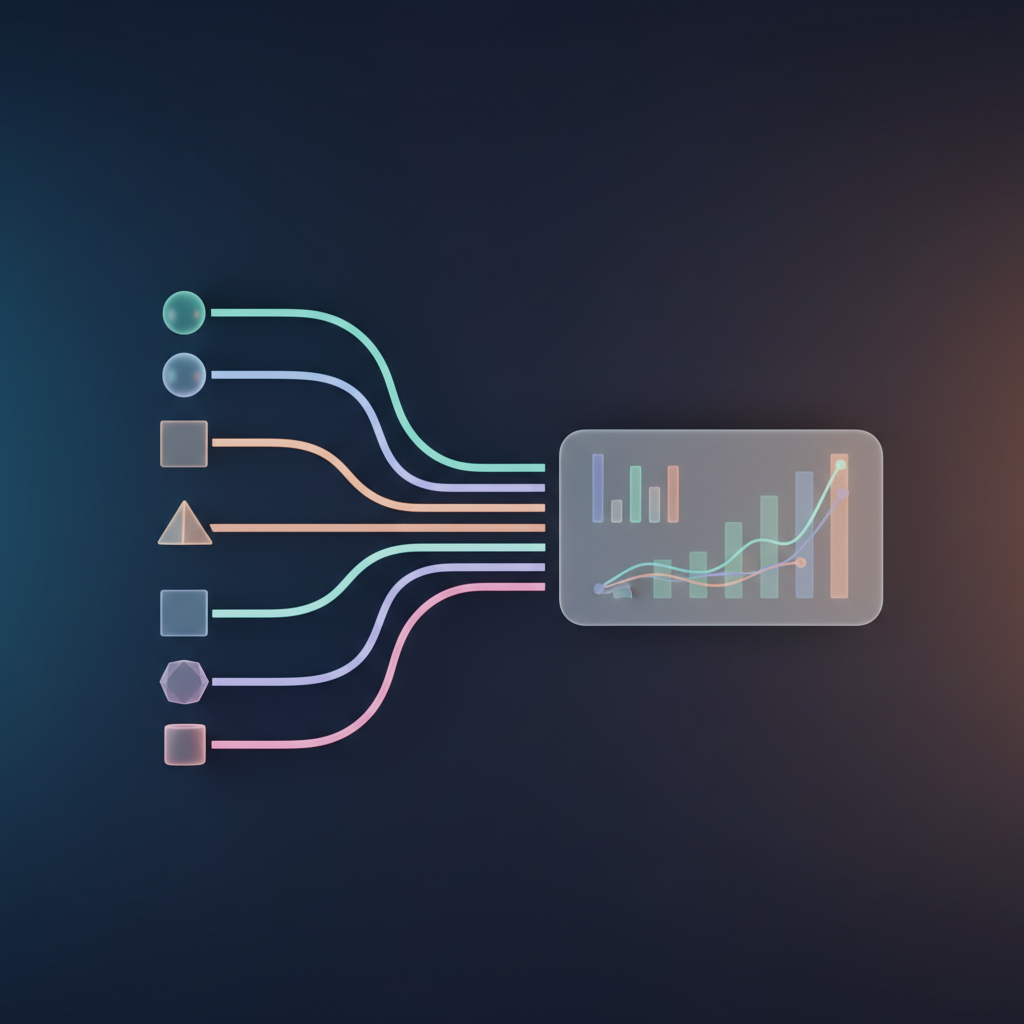
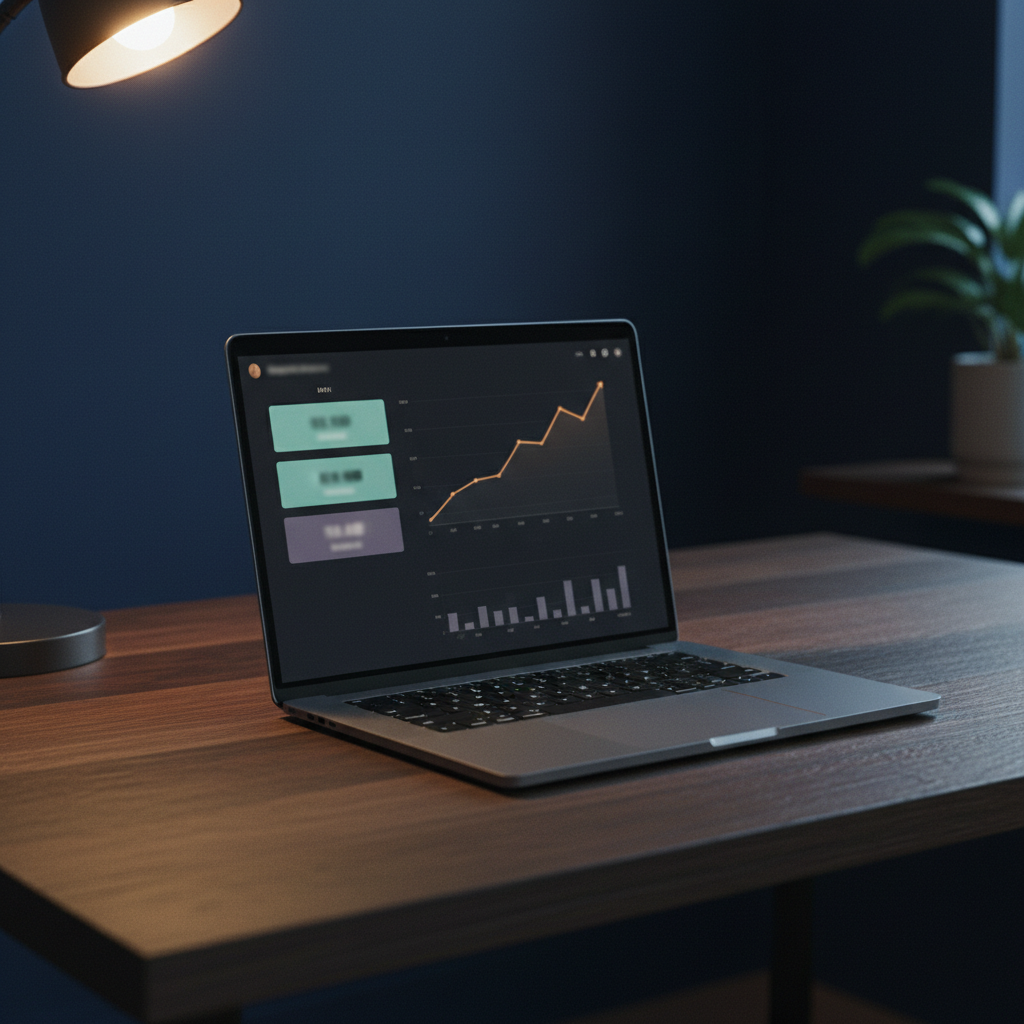
Upgrade image generation: photoreal product-shot style, regen dashboard

diff --git a/lib/gemini_client.py b/lib/gemini_client.py
@@ -28,11 +28,24 @@ class GeminiClient:
             f"models/{self.model}:generateContent"
         )
 
-        # Добавляем "формат для Threads" чтобы пропорция была вертикальная
+        # Технический хвост: добавляется ко всем prompt'ам чтобы получить
+        # photoreal product-photography качество вместо AI-stock иллюстрации.
+        # Стилистика описана в prompts/image_style.md
         full_prompt = (
             f"{prompt}\n\n"
-            "Format: portrait orientation 4:5 aspect ratio, "
-            "high quality, suitable for social media post."
+            "Technical: photoreal 3D render, Octane / Cinema 4D quality, "
+            "cinematic lighting with rim light and soft directional shadows, "
+            "shallow depth of field, sharp focus on hero subject with blurred "
+            "background, editorial product photography aesthetic, fine surface "
+            "texture detail (brushed metal, matte ceramic, satin paper, "
+            "frosted glass where applicable), realistic material PBR shading, "
+            "high dynamic range, subtle film grain. "
+            "Composition: vertical 4:5 aspect ratio (1080x1350), single hero "
+            "subject, three-color palette maximum, no rainbow gradients. "
+            "Strictly avoid: flat illustration look, abstract geometric symbols, "
+            "lines connecting nodes, holographic effects, magical glow, generic "
+            "AI-stock aesthetic, brand logos, readable text, human figures or "
+            "body parts in frame."
         )
 
         payload = {

diff --git a/prompts/image_style.md b/prompts/image_style.md
@@ -1,63 +1,138 @@
 # Визуальный стиль картинок к постам
 
-Этот файл — референс для написания image_prompt. Не используется напрямую кодом, но Claude должен ориентироваться на него когда генерит image_prompt в варианте поста.
+Этот файл — референс для написания image_prompt. Используется Claude когда
+он генерит image_prompt для нового поста. Цель: картинка должна показывать
+СУТЬ РЕЗУЛЬТАТА работы, а не быть абстрактным символом.
 
-## Базовые правила
+## Главный принцип
 
-- **Vertical 4:5** — оптимальная пропорция для feed Threads (1080x1350)
-- **Тёмный фон** — соответствует визуальному стилю UmayGPT и не слепит в ленте
-- **Без людей** — генерация людей часто выходит криво и съедает аутентичность
-- **Без названий брендов и реальных лого** — Gemini часто рендерит коряво и это палится
-- **Без текста на картинке** — кроме случаев когда это часть концепта (схема, dashboard mockup)
+**Снимай результат как продукт, а не идею через метафору.**
 
-## Стили которые работают
+Если пост про дашборд — покажи реальный экран дашборда (или его натурный мокап
+на ноутбуке/телефоне). Если про call-аналитику — покажи интерфейс с волной
+звука и метриками. Если про премиум-товары — покажи коробку как из product
+photography. Не лепи "поток данных в виде цветных линий" или "микрофон
+переходящий в график". Это AI-stock.
 
-### 1. Минималистичная 3D иллюстрация
-```
-Minimalist 3D illustration on dark navy background, abstract geometric shapes,
-soft gradient lighting, modern professional aesthetic, vertical 4:5 composition,
-no text, no people, subtle glow effects
-```
+Картинка должна отвечать на вопрос «что у Султана на экране сейчас стоит»,
+а не «что бы могло быть метафорой темы».
 
-### 2. Дашборд / интерфейс-мокап
-```
-UI dashboard mockup on dark background, clean modern interface with data charts,
-graph visualization, soft purple and teal accents, no real brand names,
-vertical 4:5 layout, minimalist design
-```
+## Базовый формат
 
-### 3. Схема процесса (флоу)
-```
-Diagram flow chart on dark background, connected nodes with arrows,
-abstract icons representing process steps, soft gradient line connections,
-minimalist technical illustration, vertical 4:5, no labels or text
-```
+- **Vertical 4:5** (1080×1350) для основного формата
+- **Реалистичный 3D render или photoreal product shot** — не "illustration", не "concept art"
+- **Глубина кадра** — главный объект в фокусе, фон с soft bokeh / depth of field
+- **Рим-свет** (rim light) и мягкие тени — даёт объём и кинематографичность
+- **Один герой кадра** — не пять объектов в композиции. Один главный, остальное контекст
 
-### 4. Концепт-арт продукта
+## Что должно быть в любом промпте
+
+Стандартный технический хвост (вшит в gemini_client.py — повторять в prompt не надо):
+
 ```
-Concept art of abstract tech product on dark gradient background,
-soft volumetric lighting, modern industrial design aesthetic,
-deep purple to blue color palette, vertical 4:5, photorealistic render
+photoreal 3D render, octane / cinema 4d quality, cinematic lighting, rim light,
+soft directional shadows, depth of field, shallow focus, vertical 4:5
+composition, product photography aesthetic
 ```
 
-### 5. Метафорическая визуализация
+В сам prompt пиши **что снимаем + материалы + освещение + палитра + сцена**.
+
+## Шаблоны по типам постов
+
+### A. Пост про софт / интерфейс / дашборд / приложение
+Снимаем экран продукта в реалистичном контексте, не абстракцию.
+
 ```
-Abstract metaphorical visualization: [метафора - микрофон + волны для аудио,
-шестигранник для оценки, нейронная сеть для AI], dark moody background,
-glowing accents, minimalist editorial illustration style, vertical 4:5
+Photoreal product shot: matte black 14-inch laptop angled three-quarter view on
+a dark walnut desk, screen displays a clean dark-mode dashboard with crisp data
+visualizations (bar charts, line graphs, KPI tiles in teal and warm white,
+sample numbers blurred). Single warm lamp from upper-left, rim light catches
+laptop edge, soft shadow on desk. Background: blurred home office with deep
+indigo wall, out of focus. Vertical 4:5.
 ```
 
-## Цветовая палитра по умолчанию
+Альтернатива — экран телефона в руке (но без лица), либо плавающий экран без
+устройства (как Apple keynote slide), без логотипа на корпусе.
 
-- Основа: глубокий тёмно-синий / navy (#0a0e27, #1a1f3a)
-- Акценты: фиолетовый (#7c3aed), бирюзовый (#06b6d4), мягкий пурпурный (#a855f7)
-- Подсветка: тёплый янтарный (#f59e0b) для редких акцентов
+### B. Пост про физический продукт / коробку / товар
+Чистый product shot как у premium бренда.
 
-## Чего избегать
+```
+Photoreal product photography: single matte champagne-gold gift box sitting on
+brushed concrete surface, soft satin ribbon catching light, fine paper texture
+visible. Hard rim light from back-left creating sharp highlight, soft fill from
+front. Background gradient from deep charcoal at top to warm umber at bottom,
+shallow depth of field. Editorial commercial style, vertical 4:5.
+```
 
-- Стоковые фото-выглядящие изображения
-- Иллюстрации с плоскими градиентами без объёма
-- Картинки с очевидным AI-look (искажённые пальцы, странные глаза)
-- Яркие пёстрые цвета — выглядят дёшево
-- Корпоративный clipart-look
-- Тексты-плакаты ("AI revolution", "Future is here") — это палится моментально
+### C. Пост про процесс / систему / автоматизацию
+Покажи рабочее место или артефакт работы, не "блок-схему со стрелками".
+
+```
+Photoreal overhead shot of a developer workspace: matte mechanical keyboard,
+open notebook with handwritten flow diagram (lines abstract, not readable),
+small coffee cup with steam, smartphone face-down showing a single notification
+glow. Warm desk lamp light from top-right, deep amber and teal accents.
+Shallow focus on notebook. Vertical 4:5.
+```
+
+### D. Пост-рассуждение / без конкретного объекта
+Если объекта нет — снимай ATMOSFERA не символ.
+
+```
+Photoreal cinematic still: dimly lit home office at night, single laptop screen
+glowing teal in foreground (content not readable, just light), window with city
+lights bokeh in background. Mood: focused late-night work. No people in frame.
+Vertical 4:5, shallow depth of field, anamorphic feel.
+```
+
+## Палитра — выбирается под тему, не всегда navy+teal
+
+| Тема | Палитра |
+|---|---|
+| Аналитика, технари, продукт | глубокий navy + teal + warm white, акцент янтарь |
+| Премиум-товары, lifestyle | champagne gold + charcoal + soft cream |
+| AI / автоматизация / код | dark slate + electric cyan + magenta highlights |
+| Колл-центр / коммуникации | warm amber + deep brown + cream |
+| Маркетинг / реклама / креатив | sunset orange + plum + ivory |
+| Стратегические рассуждения | monochrome dark with one warm accent |
+
+Никогда не "rainbow gradient" — палитра 3 цвета максимум.
+
+## Анти-AI-stock чек-лист
+
+Промпт НЕ должен содержать:
+
+- ❌ "abstract geometric shapes" / "abstract data flow"
+- ❌ "lines connecting nodes" / "network visualization"
+- ❌ "magical glow" / "futuristic interface"
+- ❌ "X transforms into Y" (микрофон в волны, мозг в схему)
+- ❌ "holographic" / "neon cyberpunk"
+- ❌ "minimalist illustration" (просим РЕНДЕР, не иллюстрацию)
+- ❌ "soft gradient background" без детали что именно
+- ❌ Стрелки, мозги с лампочкой, рукопожатия, глобус с линиями
+- ❌ Слово "creative" / "innovative" / "modern" без конкретики
+
+Промпт ДОЛЖЕН содержать:
+
+- ✅ Конкретный главный объект ("matte black 14-inch laptop" а не "device")
+- ✅ Материалы ("brushed aluminum", "satin paper", "matte ceramic", "frosted glass")
+- ✅ Конкретное освещение ("warm key light from upper-left, cool rim from back-right")
+- ✅ Поверхность / сцена ("dark walnut desk", "brushed concrete", "white marble")
+- ✅ Глубину кадра ("shallow depth of field", "background blurred")
+- ✅ Палитру 3 цветов с конкретными значениями
+- ✅ Vertical 4:5 composition
+
+## Правило «вообрази обложку Wired»
+
+Спроси себя: «эта картинка могла бы быть на обложке Wired / Monocle / Apple
+keynote?» Если ответ «нет, это похоже на превью к статье Forbes про AI» —
+переписывай. Целишься в editorial product photography, не в иллюстративный
+сток.
+
+## Когда лучше реальный скриншот вместо генерации
+
+Если пост про конкретный интерфейс который у тебя реально работает —
+прикрепи скриншот вместо генерации. Это всегда сильнее любого 3D-рендера.
+Скрин показывает что продукт реальный. Пример: пост про шестигранник
+использует реальный скриншот UI, не сгенерённую картинку.

diff --git a/prompts/voice_to_thread.md b/prompts/voice_to_thread.md
@@ -81,4 +81,33 @@
 - Вариант 2 — нарративный / "история" (с чего началось, как пришёл к этому)
 - Вариант 3 — провокационный / противоположный (вопрос, антипример, спор с очевидным)
 
-image_prompt опционален. Добавляй его если визуал реально усилит пост (схема, дашборд, скетч продукта). Не нужен для чисто текстовых дискуссий и вопросов.
+image_prompt опционален. Добавляй его если визуал реально усилит пост
+(дашборд, продукт, рабочее место, артефакт работы). Не нужен для чисто
+текстовых дискуссий и вопросов.
+
+**КАК ПИСАТЬ image_prompt** (правила в `prompts/image_style.md`):
+
+Главное правило — снимай результат как продукт, не идею через метафору.
+Если пост про дашборд — показывай ноутбук с реальным дашбордом на экране,
+не "потоки данных в виде линий". Если про коробку премиум-товаров —
+product shot как у Apple/Nike, не "иллюстрация подарка".
+
+Шаблон prompt'а (Claude должен следовать ему):
+
+```
+Photoreal product shot: [конкретный объект с материалом, например
+"matte black 14-inch laptop"] on [конкретная поверхность, например
+"dark walnut desk"], [что на нём / контекст — например "screen displays
+clean dark-mode dashboard with bar charts and KPI tiles in teal"].
+[Освещение — например "warm key light from upper-left, cool rim from
+back-right, soft shadow on desk"]. Background: [конкретный фон с blur,
+например "deep indigo wall with bokeh"]. Palette: [3 цвета максимум,
+например "deep navy, teal, warm white"]. Vertical 4:5.
+```
+
+НЕ ПИШИ: "abstract", "geometric shapes", "data flow", "minimalist
+illustration", "transforms into", "neural network", "futuristic",
+"holographic". Это AI-stock триггеры — Gemini рендерит дёшево.
+
+ПИШИ: конкретный объект + материал + поверхность + освещение + 3-цветная
+палитра + сцена. См. полные шаблоны в `prompts/image_style.md`.
